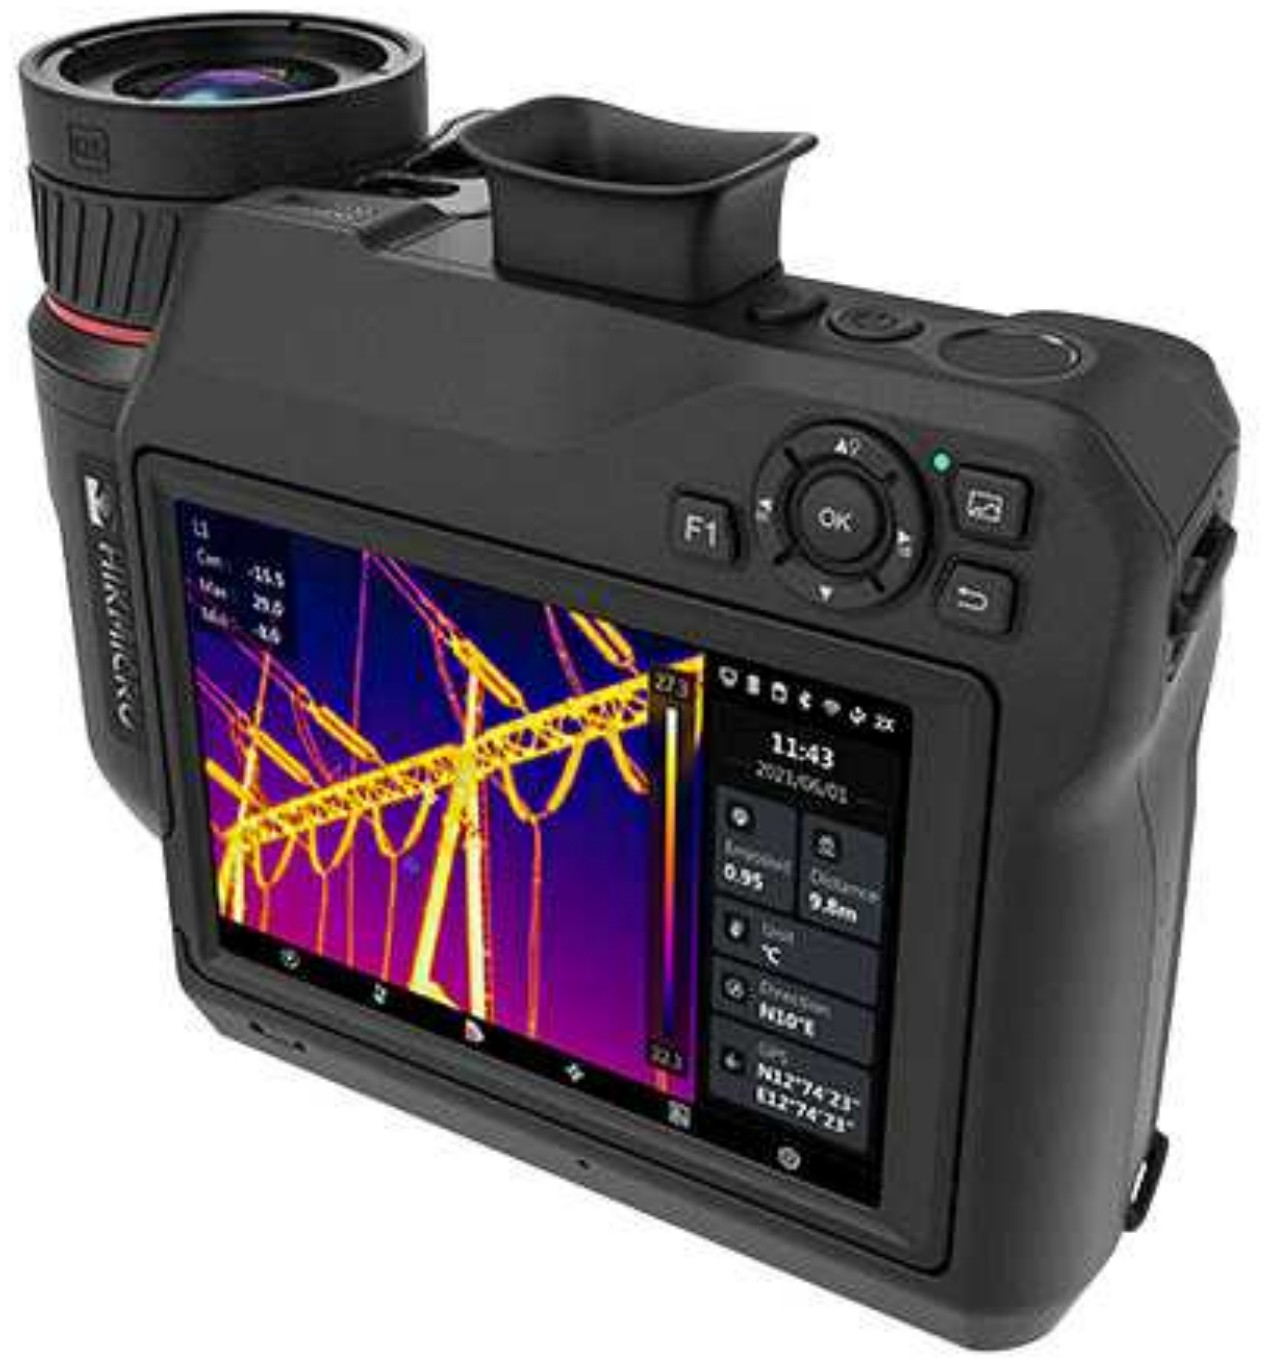
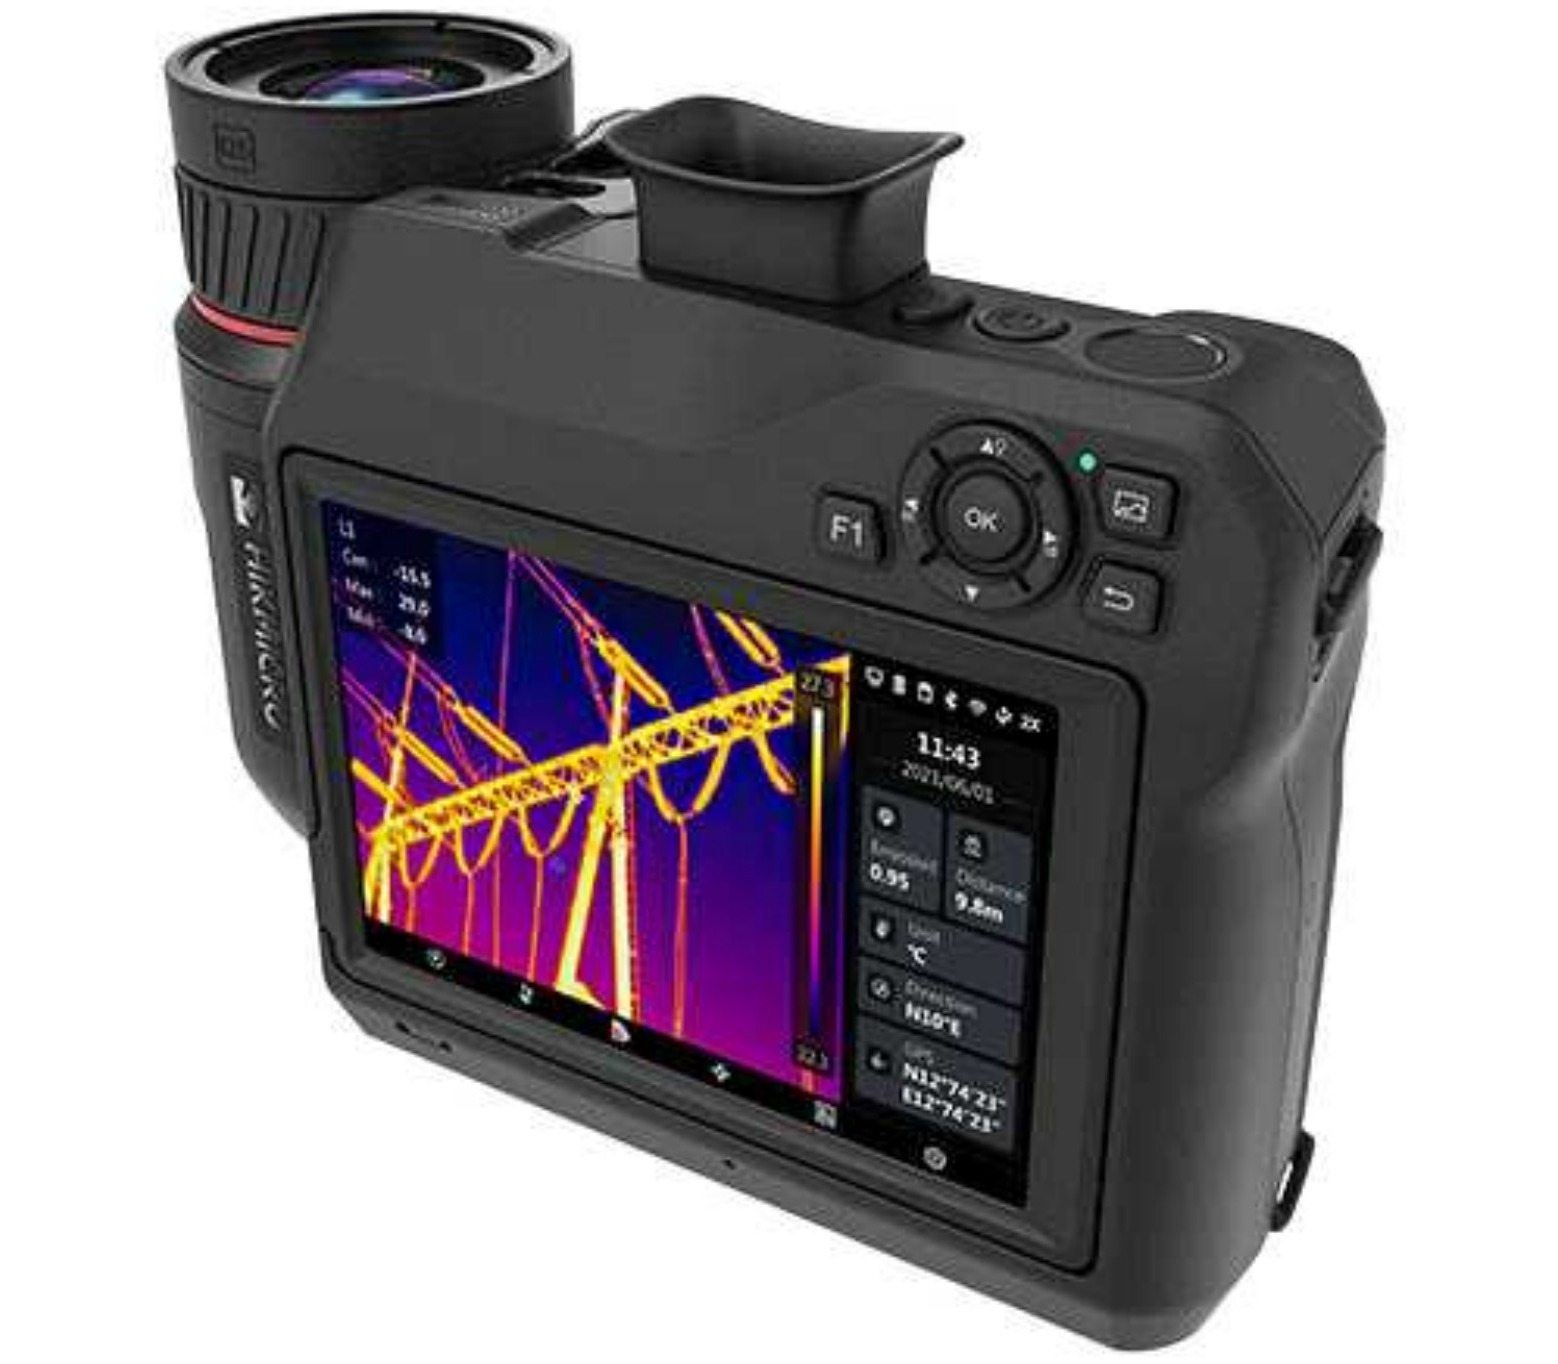
메인 이미지 잘림 문제 수정: cover 대신 이미지 자체를 박스 비율에 맞게 여백 패딩 처리 (잘림 없이 꽉 차게 표시)

diff --git a/product-detail-ai76.html b/product-detail-ai76.html
@@ -32,11 +32,11 @@
 
   <div class="detail-wrap">
     <div class="detail-gallery">
-      <div class="main-img" id="mainImg" style="background-image:url('images/products/ai76_main.jpg'); background-size:cover;"></div>
+      <div class="main-img" id="mainImg" style="background-image:url('images/products/ai76_main.jpg');"></div>
       <div class="gallery-thumbs">
-        <div class="thumb-img active" data-src="images/products/ai76_main.jpg" style="background-image:url('images/products/ai76_main.jpg'); background-size:cover;"></div>
-        <div class="thumb-img" data-src="images/products/ai76_main2.jpg" style="background-image:url('images/products/ai76_main2.jpg'); background-size:cover;"></div>
-        <div class="thumb-img" data-src="images/products/ai76_main3.jpg" style="background-image:url('images/products/ai76_main3.jpg'); background-size:cover;"></div>
+        <div class="thumb-img active" data-src="images/products/ai76_main.jpg" style="background-image:url('images/products/ai76_main.jpg');"></div>
+        <div class="thumb-img" data-src="images/products/ai76_main2.jpg" style="background-image:url('images/products/ai76_main2.jpg');"></div>
+        <div class="thumb-img" data-src="images/products/ai76_main3.jpg" style="background-image:url('images/products/ai76_main3.jpg');"></div>
       </div>
     </div>
 

diff --git a/product-detail-m11.html b/product-detail-m11.html
@@ -32,11 +32,11 @@
 
   <div class="detail-wrap">
     <div class="detail-gallery">
-      <div class="main-img" id="mainImg" style="background-image:url('images/products/m11_main.jpg'); background-size:cover;"></div>
+      <div class="main-img" id="mainImg" style="background-image:url('images/products/m11_main.jpg');"></div>
       <div class="gallery-thumbs">
-        <div class="thumb-img active" data-src="images/products/m11_main.jpg" style="background-image:url('images/products/m11_main.jpg'); background-size:cover;"></div>
-        <div class="thumb-img" data-src="images/products/m11_main2.jpg" style="background-image:url('images/products/m11_main2.jpg'); background-size:cover;"></div>
-        <div class="thumb-img" data-src="images/products/m11_main3.jpg" style="background-image:url('images/products/m11_main3.jpg'); background-size:cover;"></div>
+        <div class="thumb-img active" data-src="images/products/m11_main.jpg" style="background-image:url('images/products/m11_main.jpg');"></div>
+        <div class="thumb-img" data-src="images/products/m11_main2.jpg" style="background-image:url('images/products/m11_main2.jpg');"></div>
+        <div class="thumb-img" data-src="images/products/m11_main3.jpg" style="background-image:url('images/products/m11_main3.jpg');"></div>
       </div>
     </div>
 

diff --git a/product-detail-pocket2.html b/product-detail-pocket2.html
@@ -32,10 +32,10 @@
 
   <div class="detail-wrap">
     <div class="detail-gallery">
-      <div class="main-img" id="mainImg" style="background-image:url('images/products/pocket2_main.jpg'); background-size:cover;"></div>
+      <div class="main-img" id="mainImg" style="background-image:url('images/products/pocket2_main.jpg');"></div>
       <div class="gallery-thumbs">
-        <div class="thumb-img active" data-src="images/products/pocket2_main.jpg" style="background-image:url('images/products/pocket2_main.jpg'); background-size:cover;"></div>
-        <div class="thumb-img" data-src="images/products/pocket2_main3.jpg" style="background-image:url('images/products/pocket2_main3.jpg'); background-size:cover;"></div>
+        <div class="thumb-img active" data-src="images/products/pocket2_main.jpg" style="background-image:url('images/products/pocket2_main.jpg');"></div>
+        <div class="thumb-img" data-src="images/products/pocket2_main3.jpg" style="background-image:url('images/products/pocket2_main3.jpg');"></div>
       </div>
     </div>
 

diff --git a/product-detail-sp100h.html b/product-detail-sp100h.html
@@ -32,10 +32,10 @@
 
   <div class="detail-wrap">
     <div class="detail-gallery">
-      <div class="main-img" id="mainImg" style="background-image:url('images/products/sp100h_main.jpg'); background-size:cover;"></div>
+      <div class="main-img" id="mainImg" style="background-image:url('images/products/sp100h_main.jpg');"></div>
       <div class="gallery-thumbs">
-        <div class="thumb-img active" data-src="images/products/sp100h_main.jpg" style="background-image:url('images/products/sp100h_main.jpg'); background-size:cover;"></div>
-        <div class="thumb-img" data-src="images/products/sp100h_main3.jpg" style="background-image:url('images/products/sp100h_main3.jpg'); background-size:cover;"></div>
+        <div class="thumb-img active" data-src="images/products/sp100h_main.jpg" style="background-image:url('images/products/sp100h_main.jpg');"></div>
+        <div class="thumb-img" data-src="images/products/sp100h_main3.jpg" style="background-image:url('images/products/sp100h_main3.jpg');"></div>
       </div>
     </div>
 

diff --git a/product-detail-sp120h.html b/product-detail-sp120h.html
@@ -32,10 +32,10 @@
 
   <div class="detail-wrap">
     <div class="detail-gallery">
-      <div class="main-img" id="mainImg" style="background-image:url('images/products/sp120h_main.jpg'); background-size:cover;"></div>
+      <div class="main-img" id="mainImg" style="background-image:url('images/products/sp120h_main.jpg');"></div>
       <div class="gallery-thumbs">
-        <div class="thumb-img active" data-src="images/products/sp120h_main.jpg" style="background-image:url('images/products/sp120h_main.jpg'); background-size:cover;"></div>
-        <div class="thumb-img" data-src="images/products/sp120h_main3.jpg" style="background-image:url('images/products/sp120h_main3.jpg'); background-size:cover;"></div>
+        <div class="thumb-img active" data-src="images/products/sp120h_main.jpg" style="background-image:url('images/products/sp120h_main.jpg');"></div>
+        <div class="thumb-img" data-src="images/products/sp120h_main3.jpg" style="background-image:url('images/products/sp120h_main3.jpg');"></div>
       </div>
     </div>
 

diff --git a/product-detail-sp40h.html b/product-detail-sp40h.html
@@ -32,10 +32,10 @@
 
   <div class="detail-wrap">
     <div class="detail-gallery">
-      <div class="main-img" id="mainImg" style="background-image:url('images/products/sp40h_main.jpg'); background-size:cover;"></div>
+      <div class="main-img" id="mainImg" style="background-image:url('images/products/sp40h_main.jpg');"></div>
       <div class="gallery-thumbs">
-        <div class="thumb-img active" data-src="images/products/sp40h_main.jpg" style="background-image:url('images/products/sp40h_main.jpg'); background-size:cover;"></div>
-        <div class="thumb-img" data-src="images/products/sp40h_main3.jpg" style="background-image:url('images/products/sp40h_main3.jpg'); background-size:cover;"></div>
+        <div class="thumb-img active" data-src="images/products/sp40h_main.jpg" style="background-image:url('images/products/sp40h_main.jpg');"></div>
+        <div class="thumb-img" data-src="images/products/sp40h_main3.jpg" style="background-image:url('images/products/sp40h_main3.jpg');"></div>
       </div>
     </div>
 

diff --git a/product-detail-sp60h.html b/product-detail-sp60h.html
@@ -32,10 +32,10 @@
 
   <div class="detail-wrap">
     <div class="detail-gallery">
-      <div class="main-img" id="mainImg" style="background-image:url('images/products/sp60h_main.jpg'); background-size:cover;"></div>
+      <div class="main-img" id="mainImg" style="background-image:url('images/products/sp60h_main.jpg');"></div>
       <div class="gallery-thumbs">
-        <div class="thumb-img active" data-src="images/products/sp60h_main.jpg" style="background-image:url('images/products/sp60h_main.jpg'); background-size:cover;"></div>
-        <div class="thumb-img" data-src="images/products/sp60h_main3.jpg" style="background-image:url('images/products/sp60h_main3.jpg'); background-size:cover;"></div>
+        <div class="thumb-img active" data-src="images/products/sp60h_main.jpg" style="background-image:url('images/products/sp60h_main.jpg');"></div>
+        <div class="thumb-img" data-src="images/products/sp60h_main3.jpg" style="background-image:url('images/products/sp60h_main3.jpg');"></div>
       </div>
     </div>
 

diff --git a/product-detail-sp40.html b/product-detail-sp40.html
@@ -32,10 +32,10 @@
 
   <div class="detail-wrap">
     <div class="detail-gallery">
-      <div class="main-img" id="mainImg" style="background-image:url('images/products/sp40_main.jpg'); background-size:cover;"></div>
+      <div class="main-img" id="mainImg" style="background-image:url('images/products/sp40_main.jpg');"></div>
       <div class="gallery-thumbs">
-        <div class="thumb-img active" data-src="images/products/sp40_main.jpg" style="background-image:url('images/products/sp40_main.jpg'); background-size:cover;"></div>
-        <div class="thumb-img" data-src="images/products/sp40_main3.jpg" style="background-image:url('images/products/sp40_main3.jpg'); background-size:cover;"></div>
+        <div class="thumb-img active" data-src="images/products/sp40_main.jpg" style="background-image:url('images/products/sp40_main.jpg');"></div>
+        <div class="thumb-img" data-src="images/products/sp40_main3.jpg" style="background-image:url('images/products/sp40_main3.jpg');"></div>
       </div>
     </div>
 

diff --git a/product-detail-sp60.html b/product-detail-sp60.html
@@ -32,10 +32,10 @@
 
   <div class="detail-wrap">
     <div class="detail-gallery">
-      <div class="main-img" id="mainImg" style="background-image:url('images/products/sp60_main.jpg'); background-size:cover;"></div>
+      <div class="main-img" id="mainImg" style="background-image:url('images/products/sp60_main.jpg');"></div>
       <div class="gallery-thumbs">
-        <div class="thumb-img active" data-src="images/products/sp60_main.jpg" style="background-image:url('images/products/sp60_main.jpg'); background-size:cover;"></div>
-        <div class="thumb-img" data-src="images/products/sp60_main3.jpg" style="background-image:url('images/products/sp60_main3.jpg'); background-size:cover;"></div>
+        <div class="thumb-img active" data-src="images/products/sp60_main.jpg" style="background-image:url('images/products/sp60_main.jpg');"></div>
+        <div class="thumb-img" data-src="images/products/sp60_main3.jpg" style="background-image:url('images/products/sp60_main3.jpg');"></div>
       </div>
     </div>
 

diff --git a/product-detail-g31.html b/product-detail-g31.html
@@ -32,10 +32,10 @@
 
   <div class="detail-wrap">
     <div class="detail-gallery">
-      <div class="main-img" id="mainImg" style="background-image:url('images/products/g31_main.jpg'); background-size:cover;"></div>
+      <div class="main-img" id="mainImg" style="background-image:url('images/products/g31_main.jpg');"></div>
       <div class="gallery-thumbs">
-        <div class="thumb-img active" data-src="images/products/g31_main.jpg" style="background-image:url('images/products/g31_main.jpg'); background-size:cover;"></div>
-        <div class="thumb-img" data-src="images/products/g31_main3.jpg" style="background-image:url('images/products/g31_main3.jpg'); background-size:cover;"></div>
+        <div class="thumb-img active" data-src="images/products/g31_main.jpg" style="background-image:url('images/products/g31_main.jpg');"></div>
+        <div class="thumb-img" data-src="images/products/g31_main3.jpg" style="background-image:url('images/products/g31_main3.jpg');"></div>
       </div>
     </div>
 
